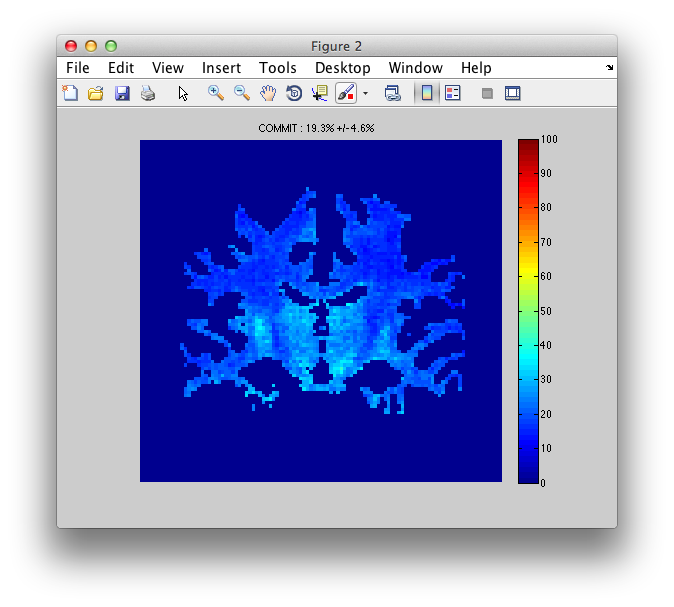
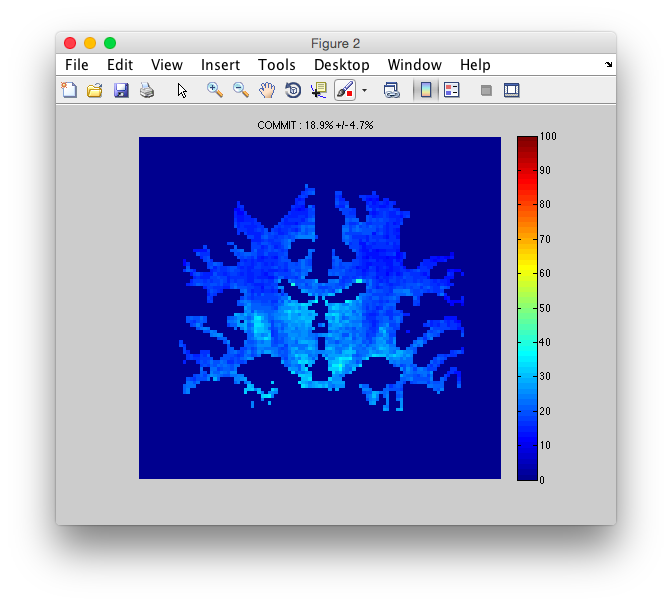
Adapted tutorial to new normalization approach

diff --git a/doc/demos/STN96/README.md b/doc/demos/STN96/README.md
@@ -1,25 +1,41 @@
 # Comparison between COMMIT and LIFE (on STN96 data from the LiFE original publication)
 
-The *LiFE* method recently described in [(Pestilli et al, Nat Methods, 2014)](http://www.nature.com/nmeth/journal/v11/n10/abs/nmeth.3098.html) can be considerd a **special case** of our *COMMIT* framework
- [(Daducci et al, IEEE Trans Med Imaging, 2014)](http://ieeexplore.ieee.org/xpl/articleDetails.jsp?arnumber=6884830); notably, it corresponds to the preliminary version of it that we had proposed in [(Daducci et al, ISBI, 2013)](http://ieeexplore.ieee.org/xpl/articleDetails.jsp?arnumber=6556527) back in 2013.
+The *LiFE* method recently described in [(Pestilli et al, Nat Methods, Sep 2014)](http://www.nature.com/nmeth/journal/v11/n10/abs/nmeth.3098.html) can be considerd a **special case** of our *COMMIT* framework
+ [(Daducci et al, IEEE Trans Med Imaging, Aug 2014)](http://ieeexplore.ieee.org/xpl/articleDetails.jsp?arnumber=6884830); notably, it corresponds to the preliminary version of it that we had proposed in [(Daducci et al, ISBI, Apr 2013)](http://ieeexplore.ieee.org/xpl/articleDetails.jsp?arnumber=6556527) back in 2013.
  
-To model the signal in each voxel, *LiFE* considers only the restricted contributions arising from all the tracts crossing a paarticular voxel (i.e. restricted diffusion). However, *LiFE* does not consider the extra-cellular space around the fibers (i.e. hindered diffusion) and all the partial volume that can occur with gray matter and CSF. On the other hand, *COMMIT* can account for all possible compartments that are present in a voxel and that contribute to the diffusion MR signal.
+To model the signal in each voxel, *LiFE* considers only the restricted contributions arising from all the tracts crossing a particular voxel (i.e. restricted diffusion). However, *LiFE* does not consider the extra-cellular space around the fibers (i.e. hindered diffusion) and all the partial volume that can occur with gray matter and CSF. On the other hand, *COMMIT* can account for all possible compartments that are present in a voxel and that contribute to the diffusion MR signal.
 
-In this demo we will show the **importance of using adequate compartment models** in order to be able to effectively evaluate the evidence of a tractogram, i.e. set of fiber tracts.
+In this demo we will show the **importance of using adequate multi-compartment models** to be able to effectively evaluate the evidence of a tractogram, i.e. set of fiber tracts.
  
 
 ## Download data
 
-1. Download precomputed data (CSD reconstruction + probabilistic tracking) from [here](http://hardi.epfl.ch/static/data/COMMIT_demos/STN96_scan1.zip).
-2. Unzip the file content into the `STN96/scan1` folder in your data directory.
-3. Download the original DWI data from [here](https://stacks.stanford.edu/file/druid:cs392kv3054/life_demo_data.tar.gz).
-4. Extract the file `life_demo_scan1_subject1_b2000_150dirs_stanford.nii.gz` from the archive, unzip it and move it to the `scan1` folder with the name `DWI.nii`, i.e.
-
+1. Create the folder `STN96/scan1` in your data directory.
+2. Download the original DWI data from [here](https://stacks.stanford.edu/file/druid:cs392kv3054/life_demo_data.tar.gz).
+3. Extract the file `life_demo_scan1_subject1_b2000_150dirs_stanford.nii.gz` from the archive, unzip it and move it to the `scan1` folder with the name `DWI.nii`, i.e.
 ```bash
 gunzip life_demo_scan1_subject1_b2000_150dirs_stanford.nii.gz
 mv life_demo_scan1_subject1_b2000_150dirs_stanford.nii STN96/scan1/DWI.nii
 ```
+     
+4. Download precomputed reconstructions from [here](http://hardi.epfl.ch/static/data/COMMIT_demos/STN96_scan1.zip). This archive contains a CSD reconstruction + probabilistic tracking performed according to the experimental setting used in the corresponding publication (e.g. CSD implemented in *MrTrix* and probabilistic tracking with 500000 tracts). 
+5. Unzip the file content into the `STN96/scan1` folder in your data directory.
 
+## Convert the tracts to the internal data structure
+
+Use the script `trk2dictionary` in the `c++` folder to convert the tracts contained in the file `STN96/scan1/Tracking/PROB/fibers.trk` to the internal sparse data structure used by *COMMIT*:
+```bash
+trk2dictionary \
+   -i STN96/scan1/Tracking/PROB/fibers.trk \
+   -p STN96/scan1/CSD/CSD_FODsh_peaks.nii \
+   -w STN96/scan1/WM.nii \
+   -o STN96/scan1/Tracking/PROB/ \
+   -c
+```
+This will create the necessary data structure (`STN96/scan1/Tracking/PROB/dictionary_*`) containing all the details if the tracts.
+
+Please be sure to first compile the code in the `c++` folder and to have the resulting binaries (in particular `trk2dictionary`) in your path.
+NB: the output tractogram from *MrTrix* has been already converted to the format accepted by *COMMIT*, i.e. [TrackiVis format](http://www.trackvis.org/docs/?subsect=fileformat) with fiber coordinates (in mm) in image space, where the coordinate (0,0,0) corresponds to the corner of first voxel.
 
 ## Process data with COMMIT
 
@@ -49,7 +65,6 @@ KERNELS_StickZeppelinBall_Generate( CONFIG );
 KERNELS_ActiveAx_RotateAndSave( CONFIG );
 
 KERNELS = KERNELS_Load( CONFIG );
-CONFIG.kernels.doNormalize = false;
 KERNELS_ProcessAtoms
 ```
 
@@ -63,7 +78,7 @@ CONFIG.OPTIMIZATION.nTHREADS = 4;
 OPTIMIZATION_Setup
 ```
 
-Actually **solve** the inverse problem according to the  *COMMIT* model:
+**Solve** the inverse problem according to the  *COMMIT* model:
 
 ```matlab
 OPTIMIZATION_Solve
@@ -101,7 +116,6 @@ KERNELS_StickZeppelinBall_Generate( CONFIG );
 KERNELS_ActiveAx_RotateAndSave( CONFIG );
 
 KERNELS = KERNELS_Load( CONFIG );
-CONFIG.kernels.doNormalize = false;
 KERNELS_ProcessAtoms
 ```
 
@@ -115,7 +129,7 @@ CONFIG.OPTIMIZATION.nTHREADS = 4;
 OPTIMIZATION_Setup
 ```
 
-Actually **solve** the inverse problem according to the  *LiFE* model:
+**Solve** the inverse problem according to the  *LiFE* model:
 
 ```matlab
 OPTIMIZATION_Solve
@@ -130,36 +144,36 @@ Load the computed *NRMSE* metric of both models:
 
 ```matlab
 clear, clc
-niiNMSE_L = load_untouch_nii( fullfile('scan1','Tracking','PROB','Results_LIFE','fit_NRMSE.nii') );
-niiNMSE_C = load_untouch_nii( fullfile('scan1','Tracking','PROB','Results_COMMIT','fit_NRMSE.nii') );
+niiNRMSE_L = load_untouch_nii( fullfile('scan1','Tracking','PROB','Results_LIFE','fit_NRMSE.nii') );
+niiNRMSE_C = load_untouch_nii( fullfile('scan1','Tracking','PROB','Results_COMMIT','fit_NRMSE.nii') );
 niiMASK   = load_untouch_nii( fullfile('scan1','Tracking','PROB','dictionary_mask.nii') );
 ```
 
 Plot the fitting error with *LiFE*:
 
 ```matlab
-figure(1), imagesc( rot90(squeeze(100 * niiNMSE_L.img(:,70,:))), [0 100] )
+figure(1), imagesc( rot90(squeeze(100 * niiNRMSE_L.img(:,70,:))), [0 100] )
 axis ij image off, colorbar
-yL = 100 * niiNMSE_L.img( niiMASK.img>0 );
+yL = 100 * niiNRMSE_L.img( niiMASK.img>0 );
 title( sprintf('LiFE : %.1f%% +/- %.1f%%', mean(yL), std(yL) ))
 ```
 
 ![NRMSE for LiFE](https://github.com/daducci/COMMIT/blob/master/doc/demos/STN96/RESULTS_Fig1.png)
 
-The average fitting error is, in this case, pretty high, i.e. **68.6% ± 18.0%**. Also, we see that *LiFE* shows the highest errors in regions with crossing fibers and close to gray matter, as expected.
+The average fitting error is, in this case, pretty high, i.e. **70.4% ± 17.8%**. Also, we see that *LiFE* shows the highest errors in regions with crossing fibers and close to gray matter, as expected.
 
 We plot now the fitting error with *COMMIT*:
 
 ```matlab
-figure(2), imagesc( rot90(squeeze(100 * niiNMSE_C.img(:,70,:))), [0 100] )
+figure(2), imagesc( rot90(squeeze(100 * niiNRMSE_C.img(:,70,:))), [0 100] )
 axis ij image off, colorbar
-yC = 100 * niiNMSE_C.img( niiMASK.img>0 );
+yC = 100 * niiNRMSE_C.img( niiMASK.img>0 );
 title( sprintf('COMMIT : %.1f%% +/- %.1f%%', mean(yC), std(yC) ))
 ```
 
 ![NRMSE for COMMIT](https://github.com/daducci/COMMIT/blob/master/doc/demos/STN96/RESULTS_Fig2.png)
 
-The average fitting error is drastically reduced with *COMMIT*, i.e. (**19.3% ± 4.6%**). Also, a more homogeneous distribution of the errors can be observed, notably in crossing regions and in proximity with gray matter.
+The average fitting error is drastically reduced with *COMMIT*, i.e. (**18.9% ± 4.7%**). Also, a more homogeneous distribution of the errors can be observed, notably in crossing regions and in proximity with gray matter.
  
 Compare the *fitting error histograms* of the two models:
 
@@ -167,8 +181,8 @@ Compare the *fitting error histograms* of the two models:
 figure(3), set(gcf,'Color',[1 1 1]);
 cla, set(gca,'Color',[.97 .97 .97]); hold on
 x = linspace(0,100,100);
-yL = hist( 100 * niiNMSE_L.img(niiMASK.img>0), x );
-yC = hist( 100 * niiNMSE_C.img(niiMASK.img>0), x );
+yL = hist( 100 * niiNRMSE_L.img(niiMASK.img>0), x );
+yC = hist( 100 * niiNRMSE_C.img(niiMASK.img>0), x );
 plot( x, yL, '- ', 'LineWidth', 3, 'Color',[.8 0 0] )
 plot( x, yC, '- ', 'LineWidth', 3, 'Color',[0 .8 0] )
 grid on, box on
@@ -184,13 +198,13 @@ Compare *voxel-by-voxel* the fitting error:
 ```matlab
 figure(4), set(gcf,'Color',[1 1 1]);
 cla, set(gca,'Color',[.97 .97 .97]); hold on
-yL = 100 * niiNMSE_L.img( niiMASK.img>0 );
-yC = 100 * niiNMSE_C.img( niiMASK.img>0 );
+yL = 100 * niiNRMSE_L.img( niiMASK.img>0 );
+yC = 100 * niiNRMSE_C.img( niiMASK.img>0 );
 plot( yL, yC, 'bx' )
 plot( [0 100], [0 100], 'k--', 'LineWidth', 2 )
 grid on, box on
 axis([0 100 0 100])
-xlabel( 'NMSE [%] with LiFE' ), ylabel( 'NMSE [%] with COMMIT' )
+xlabel( 'NRMSE [%] with LiFE' ), ylabel( 'NRMSE [%] with COMMIT' )
 title('LiFE vs COMMIT')
 ```
 
